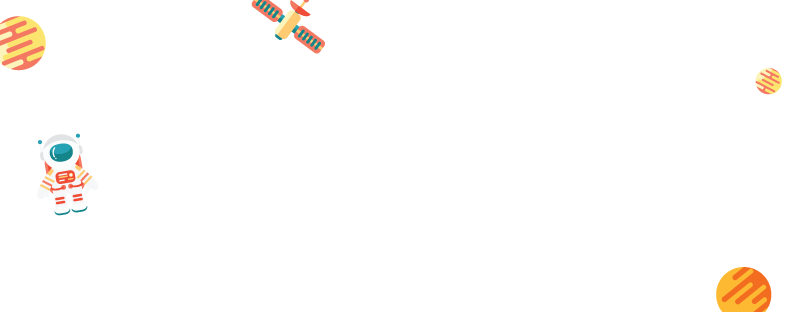
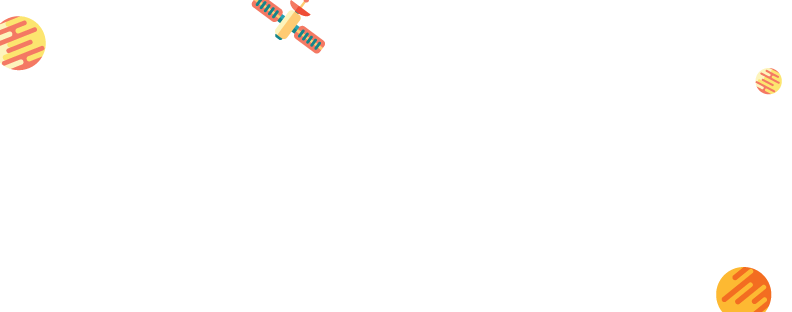
Finished juga udah kelar. Masukin spaceman animated.

Changed region(s): [[0.0303, 0.4327, 0.1212, 0.6923]]

diff --git a/finished.html b/finished.html
@@ -1,0 +1,100 @@
+<!DOCTYPE html>
+<html>
+    <head>
+        <meta charset="utf-8">
+        <title>Order completed  - Hoopla Toys Rent</title>
+        <link rel="stylesheet" href="/css/main.css">
+        <link rel="stylesheet" href="https://npmcdn.com/flickity@2/dist/flickity.css">
+        <link rel="stylesheet" href="https://unpkg.com/tippy.js@1.2.0/dist/tippy.css">
+        <link rel="stylesheet" href="https://maxcdn.bootstrapcdn.com/font-awesome/4.7.0/css/font-awesome.min.css">
+        <link rel="stylesheet" href="/css/tingle.min.css">
+    </head>
+    <body class="nobg">
+        <div class="container" id="finished">
+
+            <header>
+                <div class="top-panel">
+                    <div>
+                        Contact kami di <span class="coolgreen">+62 778 325 253</span> atau info@hooplatoys.com
+                    </div>
+                    <!-- <div>
+                        <div class="cart">
+                            <a href="#"><i class="fa fa-shopping-cart"></i>&nbsp; Cart</a>
+                        </div>
+                    </div> -->
+                </div>
+                <div class="main-logo">
+                    <img src="../img/logo-web.png" alt="Logo utama">
+                </div>
+                <!-- <nav>
+                    <li><a href="index.html">Home</a></li>
+                    <li class="has-children">
+                        <a href="product.html">Products</a>
+                        <ul class="children">
+                            <li><a href="#">Boys</a></li>
+                            <li><a href="#">Girls</a></li>
+                            <li><a href="#">Toys</a></li>
+                        </ul>
+                    </li>
+                    <li><a href="about.html">About us</a></li>
+                    <li><a href="tc.html">T &amp; C</a></li>
+                    <li class="has-children">
+                        <a href="trivia.html">Trivia</a>
+                        <ul class="children">
+                            <li><a href="#">Tips Tricks</a></li>
+                            <li><a href="#">Parenting</a></li>
+                            <li><a href="#">Toys</a></li>
+                        </ul>
+                    </li>
+                    <li><a href="contact.html" class="active">Contact us</a></li>
+                </nav> -->
+            </header>
+
+            <main>
+                <section class="fourth">
+                    <div class="satelite"></div>
+                    <div class="satelite two"></div>
+                    <div class="spaceman"></div>
+                    <div class="captioner">
+                        <h3>That's it!</h3>
+                        <p class="mb10">Orderan kamu sudah masuk, dan akan kami proses segera. Sebelumnya, silakan cek inbox email kamu. Di situ terdapat semua informasi yang kamu butuhkan untuk merampungkan orderan ini.</p>
+                        <p>Anyway, terima kasih banyak sudah berbelanja di Hoopla Toys Rent. Semoga kamu suka dengan pelayanan kami.</p>
+                        <a href="#" class="btn-hoopla">Browsing lagi barang lainnya</a>
+                    </div>
+                </section>
+            </main>
+
+            <!-- <footer>
+                <div class="main-footer">
+                    <img src="img/logo-web.png" alt="Logo Footer" width="200">
+                    <h4>Tempat rental mainan paling lengkap di Batam</h4>
+                    <ul class="social">
+                        <li><a href="#" title="Twitter kami"><i class="fa fa-twitter"></i></a></li>
+                        <li><a href="#" title="Facebook kami"><i class="fa fa-facebook"></i></a></li>
+                        <li><a href="#" title="Instagram kami"><i class="fa fa-instagram"></i></a></li>
+                        <li><a href="#" title="Pinterest kami"><i class="fa fa-pinterest"></i></a></li>
+                    </ul>
+                </div>
+                <div class="copyright">
+                    <div>
+                        Copyright &copy; Sempardak 2017
+                    </div>
+                    <div>
+                        <i class="fa fa-phone"></i> 0778 325 253
+                    </div>
+                </div>
+            </footer> -->
+        </div>
+
+
+        <script src="js/main.js"></script>
+        <script src="https://unpkg.com/tippy.js@1.2.0/dist/tippy.min.js"></script>
+
+        <script type="text/javascript">
+            tippy('.social a', {
+                followCursor: true,
+                position: 'bottom'
+            });
+        </script>
+    </body>
+</html>

diff --git a/css/main.css b/css/main.css
@@ -2010,3 +2010,72 @@ section > h4:before {
 .cart-table .btn-hoopla {
   float: right;
 }
+
+.nobg {
+  background: none;
+}
+
+#finished {
+  grid-template-columns: 1fr;
+  grid-template-areas: "header header" "main main" "footer footer";
+  background: none;
+}
+
+#finished header .main-logo {
+  border-bottom: none;
+}
+
+#finished main {
+  grid-template-columns: 1fr;
+  grid-template-rows: auto;
+}
+
+#finished main .fourth {
+  min-height: 340px;
+  background-color: transparent;
+}
+
+#finished main .fourth .captioner h3 {
+  color: #69e46d;
+}
+
+#finished main .fourth .captioner p.mb10 {
+  margin-bottom: 10px;
+}
+
+.spaceman {
+  background: url("../img/spaceman.png") center;
+  background-size: cover;
+  position: absolute;
+  width: 60px;
+  height: 100px;
+  top: 30%;
+  right: initial;
+  left: 50px;
+  -webkit-animation: flying 5s ease .5s infinite;
+  animation: flying 5s ease .5s infinite;
+  -webkit-animation-direction: alternate;
+  animation-direction: alternate;
+}
+
+@-webkit-keyframes flying {
+  0% {
+    -webkit-transform: rotate(0) scale(1);
+    transform: rotate(0) scale(1);
+  }
+  100% {
+    -webkit-transform: rotate(360deg) scale(1.4);
+    transform: rotate(360deg) scale(1.4);
+  }
+}
+
+@keyframes flying {
+  0% {
+    -webkit-transform: rotate(0) scale(1);
+    transform: rotate(0) scale(1);
+  }
+  100% {
+    -webkit-transform: rotate(360deg) scale(1.4);
+    transform: rotate(360deg) scale(1.4);
+  }
+}

diff --git a/css/main.scss b/css/main.scss
@@ -1440,3 +1440,68 @@ section > h4 {
         float: right;
     }
 }
+
+
+
+
+
+
+
+
+// Oreeet tampkanya sudah sampai ke Finished Order heheh
+
+.nobg {
+    background: none;
+}
+
+#finished {
+    grid-template-columns: 1fr;
+    grid-template-areas: "header header" "main main" "footer footer";
+    background: none;
+    header {
+        .main-logo {
+            border-bottom: none;
+        }
+    }
+}
+
+#finished main {
+    grid-template-columns: 1fr;
+    grid-template-rows: auto;
+    .fourth {
+        min-height: 340px;
+        background-color: transparent;
+        .captioner {
+            h3 {
+                color: #69e46d;
+            }
+            p.mb10 {
+                margin-bottom: 10px;
+            }
+        }
+    }
+}
+
+.spaceman {
+    background: url('../img/spaceman.png') center;
+    background-size: cover;
+    position: absolute;
+    width: 60px;
+    height: 100px;
+    top: 30%;
+    right: initial;
+    left: 50px;
+    animation: flying 5s ease .5s infinite;
+    animation-direction: alternate;
+}
+
+@keyframes flying {
+    0% {
+        transform: rotate(0) scale(1);
+    }
+
+    100% {
+        transform: rotate(360deg) scale(1.4);
+    }
+
+}
